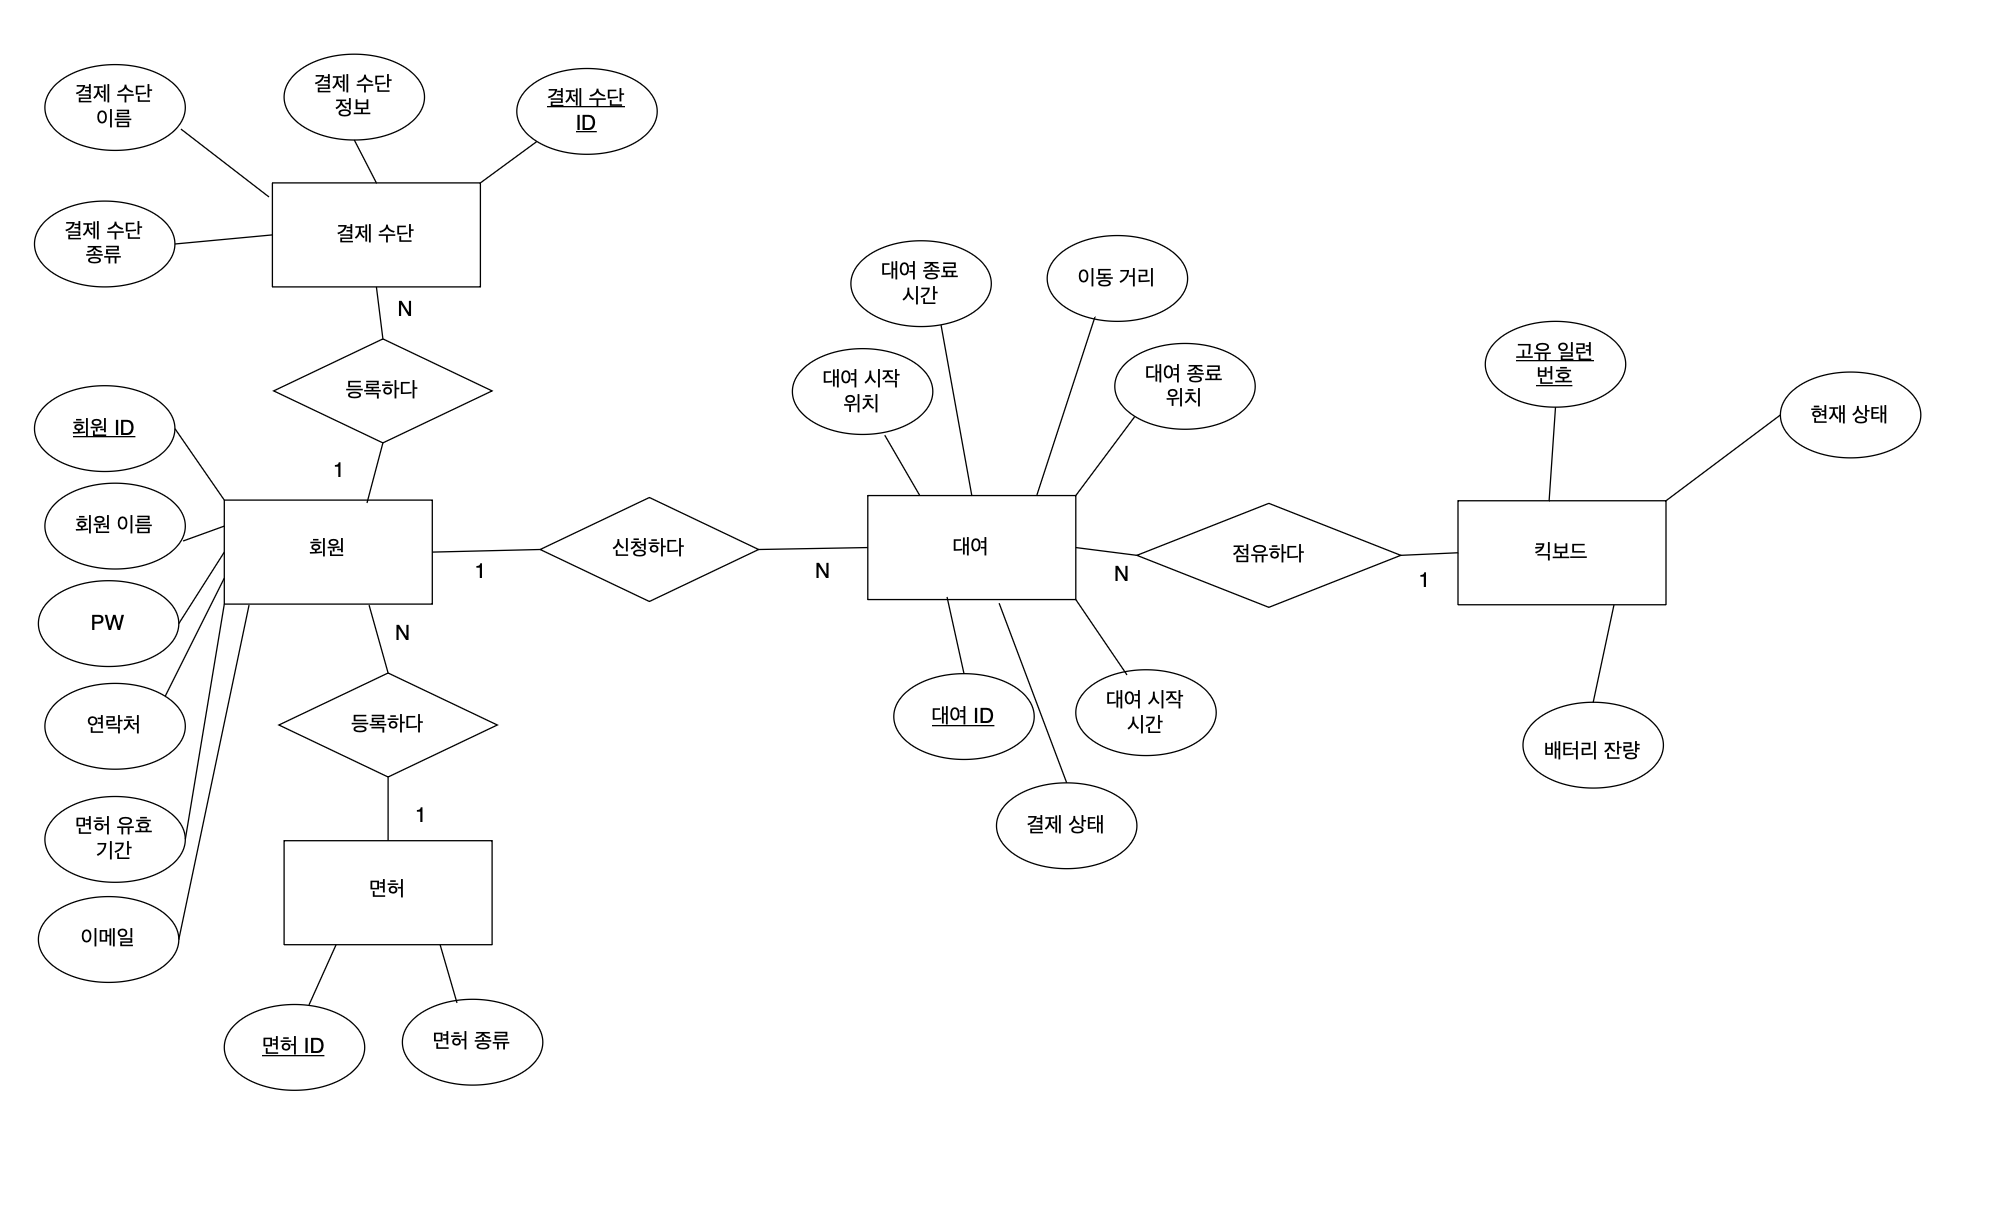
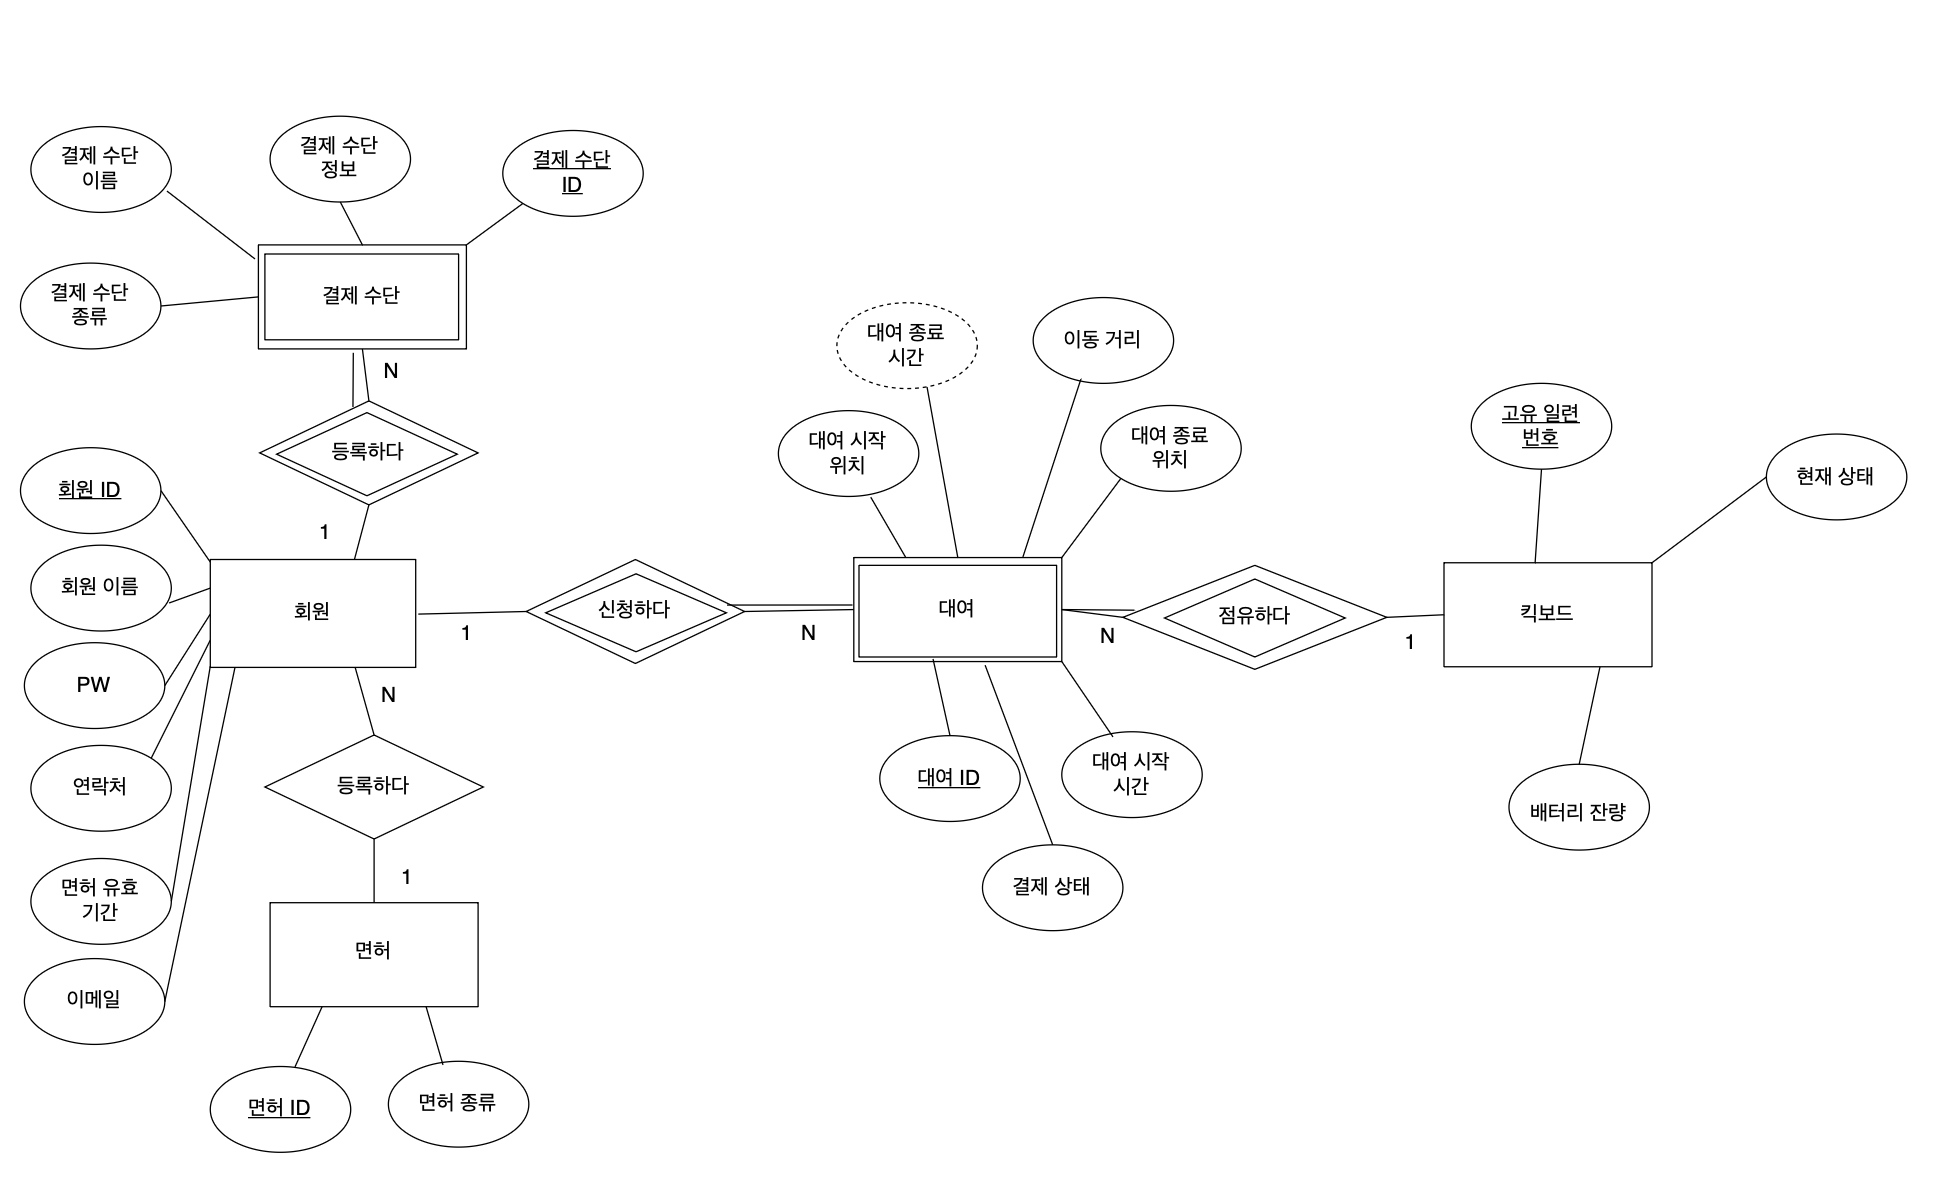
연습1 개념모델 수정

diff --git a/Knowledge/DataArchitecture.md b/Knowledge/DataArchitecture.md
@@ -179,3 +179,12 @@ N:M의 관계면 중간 테이블을 놓아 1:N으로 푸는 것이 좋다.
 
 요약: 관계 표시 안함
 
+## 첸 표기법
+
+이중 사각형(약한 엔티티)
+
+이중선 (전체 참여, Total Participation):
+"대여가 존재하려면 반드시 회원이 있어야 하고, 반드시 킥보드가 있어야 한다"처럼 필수적인 관계에는 선을 이중선(두 줄)으로 긋습니다. 대여 상자에서 신청하다와 점유하다로 가는 선을 두 줄로 그어주면 "대여 데이터는 회원과 킥보드 없이 독립적으로 존재할 수 없다"는 비즈니스 규칙이 완벽하게 시각화됩니다.
+
+유도 속성 (점선 동그라미, Derived Attribute):
+대여 엔티티에 있는 이동 거리나 논리 모델에 추가할 이용 시간 등은 '시작 시간'과 '종료 시간'을 통해 계산해 낼 수 있는 값입니다. 이런 값들은 Chen 표기법에서 점선으로 된 타원으로 그리기도 합니다.